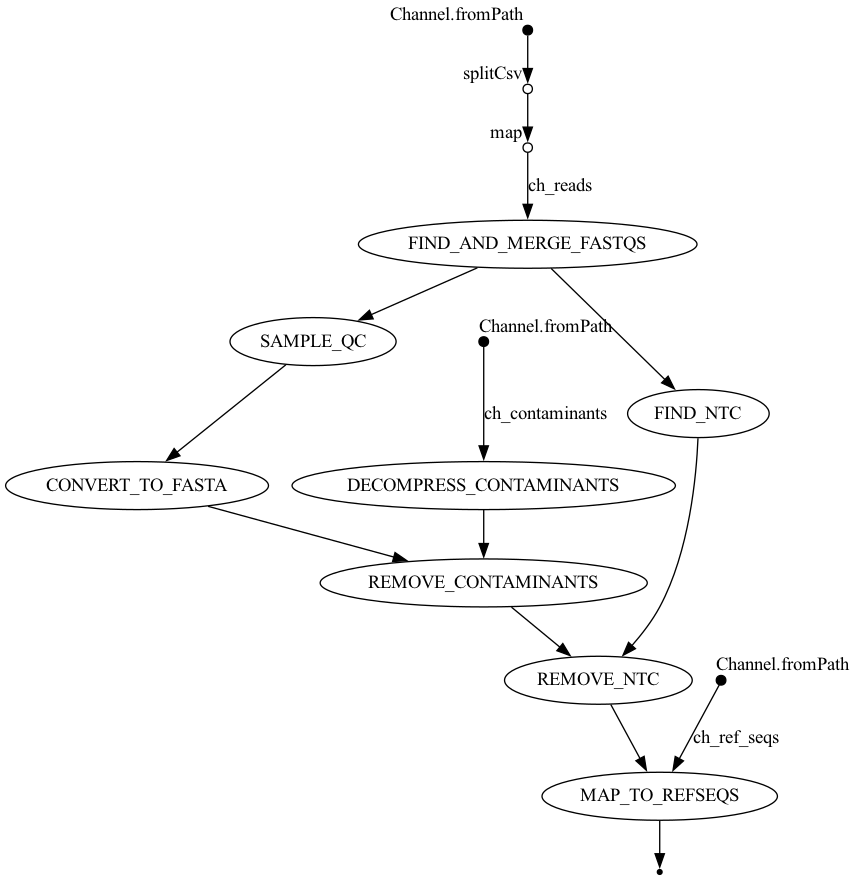
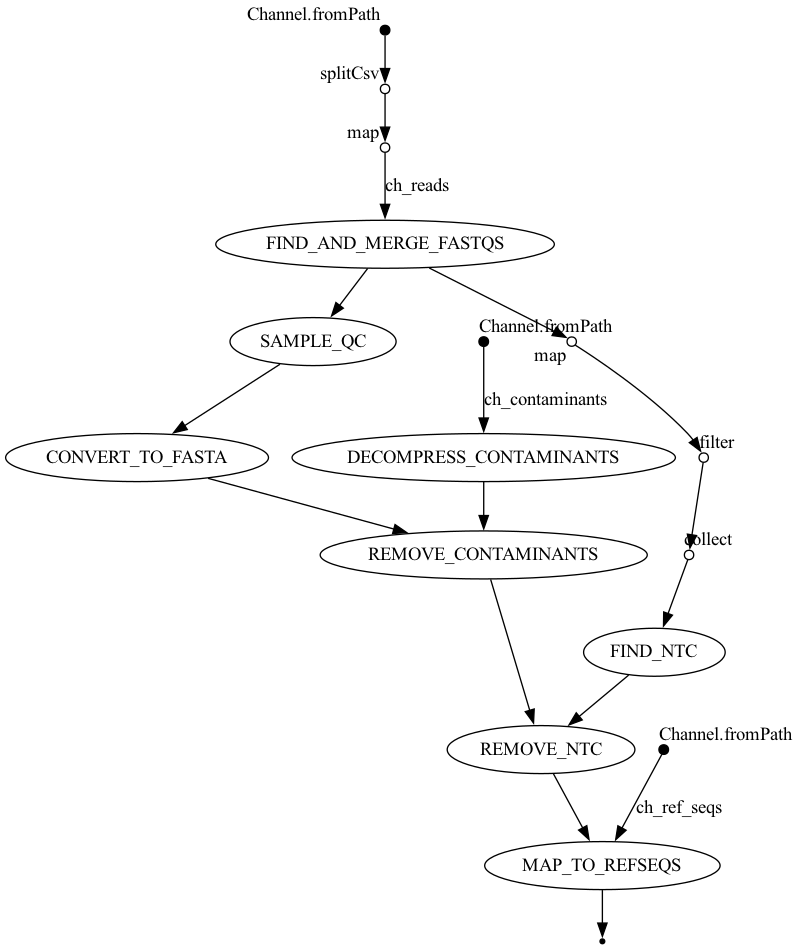
dealing more actively with nextflow symlinks, and accommodating multiple ntc's

diff --git a/bin/fastq_to_fasta.py b/bin/fastq_to_fasta.py
@@ -15,12 +15,16 @@ fasta_dir = os.getcwd()
 for filename in os.listdir(fastq_dir):
     if filename.endswith(".fastq.gz"):
         # Construct the paths to the input and output files
-        input_file = os.path.join(fastq_dir, filename)
-        output_file = os.path.join(fasta_dir, filename.replace(".fastq.gz", ".fasta"))
+        input_file = os.path.realpath(filename)
+        output_file = os.path.join(fasta_dir, filename.replace(".fastq.gz", ".fasta.gz"))
 
         # Open the input and output files
-        with gzip.open(input_file, "rt") as in_handle, open(
-            output_file, "w"
+        with gzip.open(input_file, "rt") as in_handle, gzip.open(
+            output_file, "wt"
         ) as out_handle:
             # Use BioPython to convert the gzipped FASTQ file to FASTA format
             SeqIO.convert(in_handle, "fastq", out_handle, "fasta")
+
+# Close the input and output files
+in_handle.close()
+out_handle.close()
